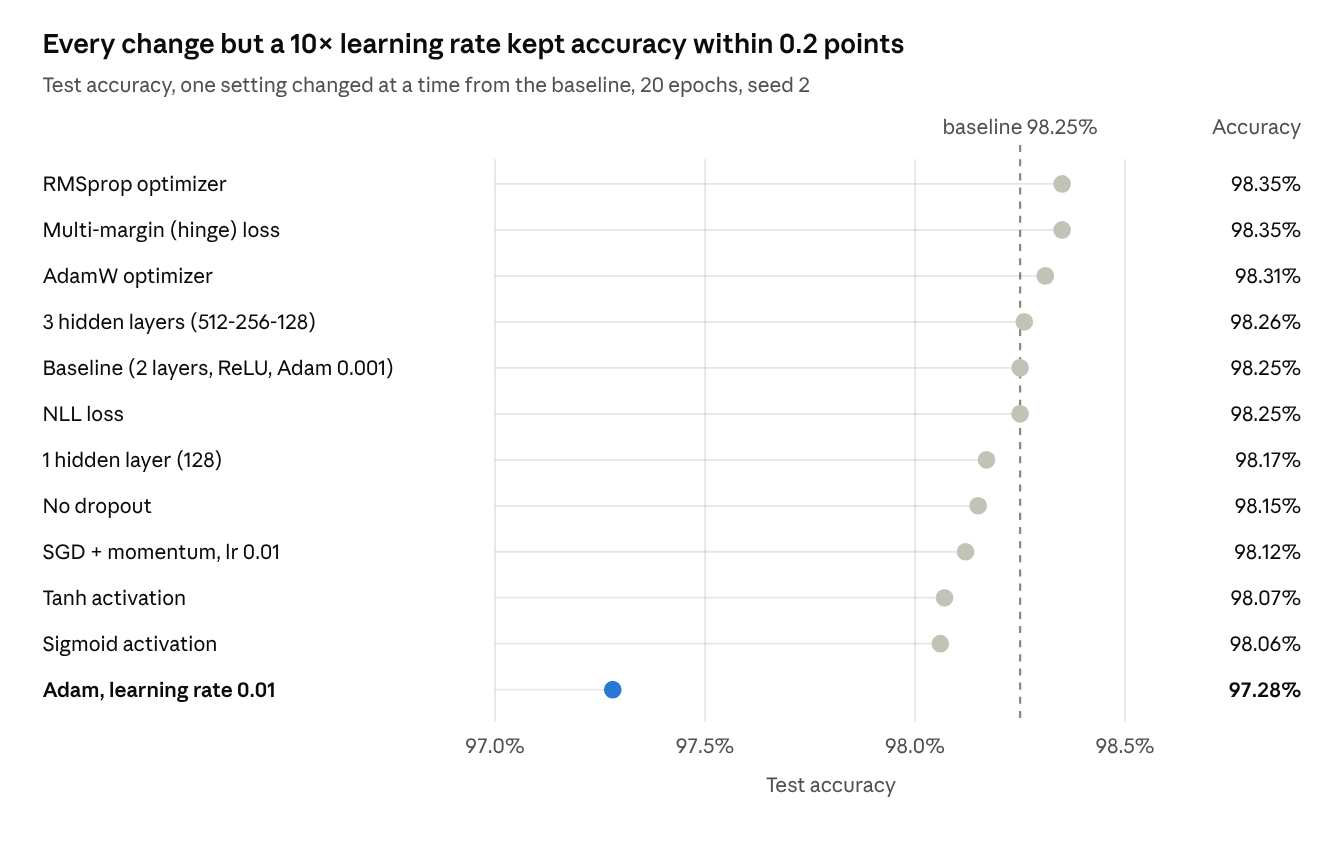
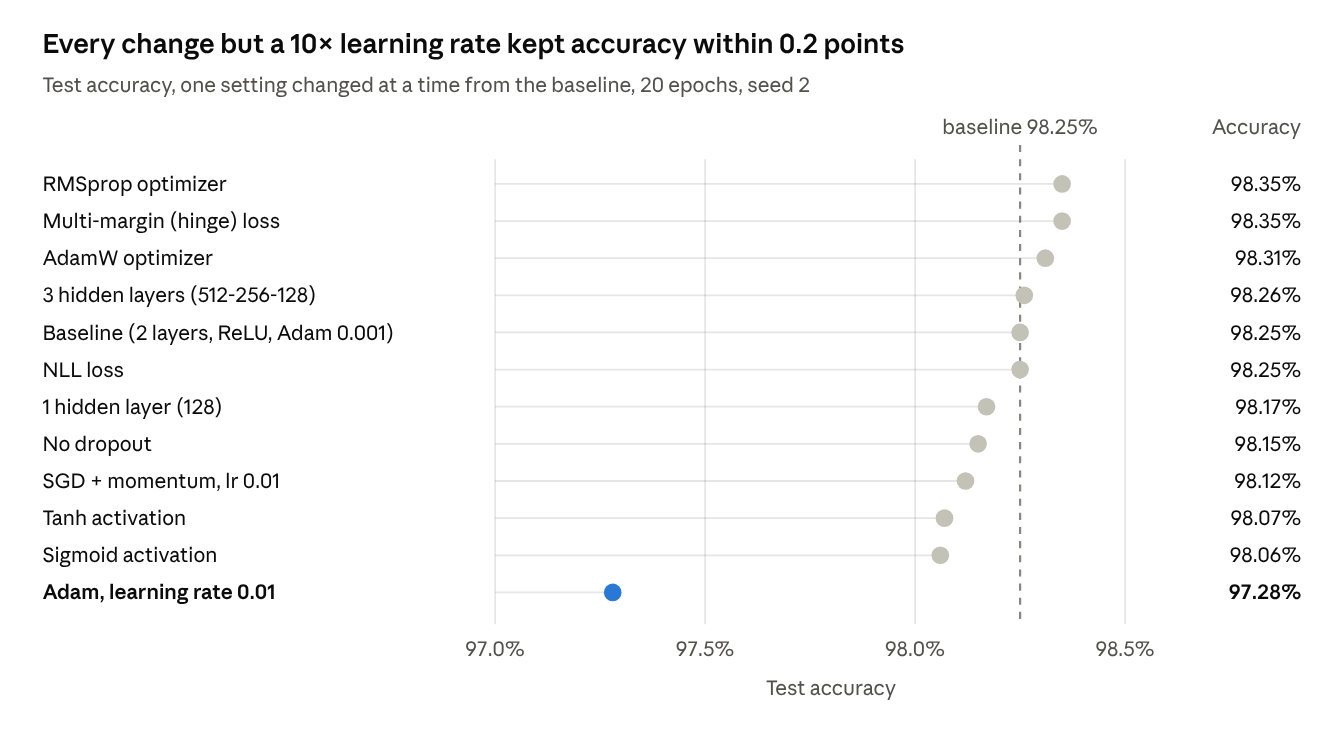
Trim Stage 2 report README to fit the 5-page limit
Shorter sections throughout, keeping the layer, split, settings and
metric explanations; compact versions of the loss and ablation charts.

diff --git a/README.md b/README.md
@@ -14,120 +14,91 @@
 
 ## Section 1: Task Description
 
-We trained a multi-layer perceptron (MLP) in PyTorch that classifies 28×28 grayscale images of handwritten digits into 10 classes (0–9), reaching 98.44% test accuracy. Each image is given as 784 pixel intensities, and the model learns a mapping from those features to a digit label.
-
-The work follows the course code template: we wrote a new dataset loader, a setting for the pre-partitioned train/test data, a 10-class MLP, and multi-class evaluation metrics. We then varied depth, dropout, activation, optimizer, loss and learning rate to see how each affects performance.
+We trained a PyTorch multi-layer perceptron (MLP) to classify 28×28 handwritten digit images (784 pixels) into 10 classes, reaching 98.44% test accuracy. Following the course code template, we wrote a CSV data loader, a 10-class MLP and multi-class metrics, then tested how depth, dropout, activation, optimizer, loss and learning rate affect performance.
 
 ## Section 2: Model Description
 
-Our model is a fully connected MLP with two hidden layers of 256 and 128 units, implemented as `Method_MLP` on top of the template's `method` base class.
+Our model (`Method_MLP`, built on the template's `method` class) is a fully connected network with two hidden layers.
 
 ![Baseline MLP architecture: 3 linear layers, 235,146 parameters](figures/architecture.png)
 
-Each part of the model has a specific job:
-
-- **Linear layers:** each unit computes a weighted sum of all its inputs plus a bias (w·x + b). These weights are what training learns: the pixels that matter for a digit get larger weights.
-- **Two hidden layers (256, then 128 units):** one linear layer can only separate digits with straight-line boundaries. Stacking layers lets the network build complex patterns out of simpler ones, and shrinking the sizes toward 10 condenses the information step by step.
-- **ReLU activation, max(0, x):** without it, any stack of linear layers collapses into a single linear layer. ReLU adds the bend that lets the network learn curved boundaries. It is cheap to compute and, unlike sigmoid or tanh, does not flatten out for large inputs, so gradients stay strong.
-- **Dropout (20%):** on each training step, it switches off a random 20% of hidden units. The model then cannot lean on any single unit to memorize training images. Dropout is off at test time.
-- **Output layer (10 units):** produces one score, called a logit, for each digit 0–9.
-- **Softmax with cross-entropy (training):** softmax turns the 10 scores into probabilities that sum to 1. Cross-entropy is small when the correct digit gets high probability and large for confident mistakes, so minimizing it pushes the model toward the right answer.
-- **Argmax (testing):** the digit with the highest score is the prediction.
-
-The model has 235,146 trainable parameters: 200,960 in hidden layer 1, 32,896 in hidden layer 2 and 1,290 in the output layer.
+- **Linear layers** compute a weighted sum of their inputs (w·x + b); training learns these weights.
+- **Two hidden layers (256, 128)** build complex patterns from simple ones; a single layer can only draw straight-line boundaries.
+- **ReLU, max(0, x),** adds the non-linearity that stops stacked layers from collapsing into one, and keeps gradients strong.
+- **Dropout (20%)** switches off random hidden units during training, so the model cannot memorize training images.
+- **Output (10 scores):** in training, cross-entropy applies softmax and penalizes wrong digits; at test time, the highest score is the prediction.
 
 ## Section 3: Experiment Settings
 
 ### 3.1 Dataset Description
 
-The instructor's Stage 2 dataset comes already split into 60,000 training images (86%) and 10,000 testing images (14%). Each line of `train.csv` and `test.csv` holds 785 integers: the label (0–9), then 784 pixel values from 0 to 255.
+The instructor's dataset is pre-split into 60,000 training images (86%) and 10,000 test images (14%). Each line of `train.csv` and `test.csv` is a label (0–9) followed by 784 pixel values (0–255). We kept this fixed split, so every team is scored on the same test images, and used no cross validation. Why this split:
 
-| Split | Images | Share | Used for |
-| --- | --- | --- | --- |
-| Training | 60,000 | 86% | Learning the weights; the model sees every image each epoch |
-| Testing | 10,000 | 14% | Measuring accuracy on images the model has never seen |
-
-Why it is split this way:
-
-- **A separate test set:** a model can score near 100% on images it has memorized, so accuracy only means something on unseen images. Our model scores 99.48% on training images but 98.44% on test images; a held-out set exposes that gap.
-- **Most images go to training:** handwriting varies widely between writers, and the model learns that variety only from examples. More training images means better accuracy on new handwriting.
-- **10,000 test images is already enough:** each test image is worth 0.01 percentage points, and our accuracy has a standard error of only about 0.12 points. A larger test set would barely sharpen that, but would take examples away from training.
-- **Balanced digits:** each digit makes up 9–11% of both sets, so the test checks every digit fairly.
-- **A fixed split:** every team is scored on the same test images, so we used no further splitting or cross validation.
+- **A separate test set:** accuracy only means something on unseen images. Ours scores 99.48% on training images but 98.44% on test images.
+- **Most images for training:** handwriting varies widely between writers, and the model learns that variety only from examples.
+- **10,000 test images is enough:** our accuracy's standard error is only about 0.12 points, and each digit makes up 9–11% of both sets.
 
 ### 3.2 Detailed Experimental Setups
 
 | Setting | Value | Why it matters |
 | --- | --- | --- |
-| Input scaling | Pixels ÷ 255, so inputs lie in [0, 1] | Keeps all inputs small and on one scale, so training is stable and converges faster |
-| Layer dimensions | 784 → 256 → 128 → 10 | 784 inputs match the pixels and 10 outputs match the digits; two hidden layers reach 98%+ in under a minute |
-| Activation | ReLU after each hidden layer | Lets the network learn non-linear patterns; beat tanh and sigmoid by about 0.2 points (3.7) |
-| Dropout | 0.2 after each hidden layer, training only | Discourages memorizing training images; removing it cost 0.10 points (3.7) |
-| Output | 10 raw scores (logits) | One score per digit; the highest score is the prediction |
-| Loss | Cross-entropy | The standard loss for choosing one of several classes; it penalizes confident wrong answers most |
-| Optimizer | Adam, learning rate 0.001 | Adapts the step size for each weight, so it converges quickly; a 10× larger rate lost about 1 point (3.7) |
-| Batch size | 128 | 469 weight updates per epoch instead of 1, so it learns faster than full-batch and fits easily in memory |
-| Epochs | 30, data reshuffled every epoch | Loss has flattened by about epoch 20 (3.5); reshuffling keeps the model from learning the data's order |
-| Initialization | PyTorch default for `nn.Linear` (Kaiming-uniform) | Starts weights at small random values scaled to each layer's input size, so signals neither blow up nor die out |
-| Random seed | 2 (NumPy and PyTorch) | Makes runs repeatable, so differences in 3.7 come from the settings, not luck |
-| Hardware | Apple M-series CPU; one run on the Apple GPU (MPS) | CPU is enough: 30 epochs train in under a minute |
-
-We removed the template's final softmax layer because `nn.CrossEntropyLoss` already applies log-softmax, and applying softmax twice weakens the gradients. We also switched from full-batch to mini-batch training, which suits a 60,000-instance training set. Only one dataset is used, so there is one set of settings.
+| Input scaling | Pixels ÷ 255 | Keeps inputs in [0, 1], so training is stable |
+| Layers | 784 → 256 → 128 → 10 | Inputs match the pixels, outputs match the digits; two hidden layers reach 98%+ |
+| Activation | ReLU | Learns non-linear patterns; beat tanh and sigmoid by about 0.2 points |
+| Dropout | 0.2, training only | Limits memorizing; removing it cost 0.10 points |
+| Loss | Cross-entropy | Standard for choosing one class; it applies softmax itself, so we removed the template's softmax layer |
+| Optimizer | Adam, learning rate 0.001 | Adapts each weight's step size; a 10× higher rate lost about 1 point |
+| Batch size, epochs | 128, 30 (reshuffled each epoch) | 469 updates per epoch instead of the template's 1 full batch; loss flattens by epoch 20 |
+| Initialization | PyTorch default (Kaiming-uniform) | Weights scaled to layer size, so signals neither blow up nor vanish |
+| Random seed | 2 | Repeatable runs, so 3.7 compares settings, not luck |
 
 ### 3.3 Evaluation Metrics
 
-We report Accuracy, Precision, Recall and F1 on the test set; each answers a different question. The examples use our final model's test results for digit 8, its weakest digit.
+Each metric answers a different question. Examples use digit 8, our weakest digit.
 
 | Metric | Question it answers | Example from our model |
 | --- | --- | --- |
-| Accuracy | Of all test images, how many did the model get right? | 9,844 of 10,000 correct (98.44%); 156 mistakes |
-| Precision | When the model says "8", how often is it right? | It predicted "8" 976 times; 953 were real 8s (97.64%) and 23 were false alarms |
-| Recall | Of all the real 8s, how many did the model find? | Of 974 real 8s, it found 953 (97.84%) and missed 21 |
-| F1 score | One score balancing the two: 2 × P × R / (P + R). It is low if either one is low | Digit 8: 0.9774, the lowest; digit 1: 0.9934, the highest |
+| Accuracy | How many test images were classified correctly? | 9,844 of 10,000 (98.44%) |
+| Precision | When it predicts "8", how often is it right? | 953 of 976 "8" predictions (97.64%) |
+| Recall | Of the real 8s, how many did it find? | 953 of 974 real 8s (97.84%) |
+| F1 score | Balances the two: 2PR / (P + R) | 0.9774 for digit 8, the lowest of the 10 |
 
-How to read them:
-
-- **Low precision means false alarms:** the model labels other digits as this one.
-- **Low recall means misses:** the model fails to recognize this digit.
-- **Macro vs. weighted:** precision, recall and F1 are computed per digit, then averaged over the 10 digits. **Macro** counts every digit equally, so one weak digit pulls it down. **Weighted** counts each digit by its number of test images. When the two are close, as in 3.6, no digit is being neglected.
+Low precision means false alarms; low recall means misses. Per-digit scores are averaged two ways: **macro** treats every digit equally, so a weak digit shows up, and **weighted** counts each digit by its number of test images.
 
 ### 3.4 Source Code
 
-Source code: <https://github.com/bettyckang/ECS170-project/tree/stage-2>. The Stage 2 code lives in `local_code/stage_2_code/` (Dataset_Loader, Method_MLP, Setting_Train_Test_Given, Evaluate_Metrics, Plot_Learning_Curve) and `script/stage_2_script/` (`script_mlp.py` for the main run, `script_mlp_experiments.py` for the ablations).
+[github.com/bettyckang/ECS170-project (stage-2 branch)](https://github.com/bettyckang/ECS170-project/tree/stage-2): Stage 2 code is in `local_code/stage_2_code/` and `script/stage_2_script/`.
 
 ### 3.5 Training Convergence Plot
 
 ![Training loss falls from 0.383 to 0.015 over 30 epochs](figures/loss_curve.png)
 
-The loss falls 60% between epochs 1 and 2 and flattens after about epoch 20, so gradient descent with Adam converges smoothly. Training and test accuracy per epoch are in [figures/train_test_accuracy.png](figures/train_test_accuracy.png).
+Loss falls 60% between epochs 1 and 2 and flattens after about epoch 20, so training converges smoothly.
 
 ### 3.6 Model Performance
 
-The baseline MLP reaches 98.44% accuracy on the 10,000 test images, and every averaged metric is within 0.02 points of it.
+The final model reaches **98.44% accuracy** on the 10,000 test images, above the required 95%.
 
 | Metric | Macro average | Weighted average |
 | --- | --- | --- |
-| Accuracy | 0.9844 | 0.9844 |
 | Precision | 0.9842 | 0.9844 |
 | Recall | 0.9842 | 0.9844 |
 | F1 score | 0.9842 | 0.9844 |
 
-Per class, F1 ranges from 0.977 for digit 8 to 0.993 for digit 1. Macro and weighted averages nearly match because the 10 classes are close to balanced (892 to 1,135 test images each).
+Per-digit F1 ranges from 0.977 (digit 8) to 0.993 (digit 1). Macro and weighted averages match closely, so no digit is neglected.
 
 ### 3.7 Ablation Studies
 
-Only the learning rate mattered much: raising Adam's learning rate tenfold to 0.01 cut test accuracy to 97.28%, while every other change stayed within 0.2 points of the 98.25% baseline. Each run changes one setting from the baseline and trains for 20 epochs with the same seed. In every run, weighted precision, recall and F1 and macro F1 are within 0.0002 of accuracy, so the chart shows accuracy alone.
+Each run changes one setting from the baseline (20 epochs, same seed). Only the learning rate mattered much: at 0.01, accuracy fell to 97.28%, while every other change stayed within 0.2 points of the 98.25% baseline. Precision, recall and F1 track accuracy within 0.0002, so the chart shows accuracy alone.
 
 ![Test accuracy for 12 one-change-at-a-time runs](figures/ablation_accuracy.png)
 
-- **Learning rate:** at 0.01, Adam's steps overshoot, and accuracy fell about 1 point.
-- **Depth:** one hidden layer lost only 0.08 points and trained twice as fast (12.5 s vs 26.9 s). Three layers gained 0.01 points but took 43.1 s.
-- **Dropout and activation:** removing dropout cost 0.10 points. ReLU beat tanh and sigmoid by about 0.2 points.
-- **Optimizer:** RMSprop (98.35%) and AdamW (98.31%) edged out Adam; SGD with momentum trailed at 98.12%.
-- **Loss:** NLL loss after log-softmax is mathematically the same as cross-entropy, and it gave an identical 98.25%. The multi-margin (hinge) loss tied for best at 98.35%.
-- **GPU (optional 2-6):** the same baseline on the Apple GPU (MPS) took 46.4 s versus 26.9 s on the CPU, because transfer overhead outweighs the speedup for a model this small.
+- **Depth:** one hidden layer lost 0.08 points but trained twice as fast; three layers gained only 0.01.
+- **Dropout and activation:** removing dropout cost 0.10 points; tanh and sigmoid trailed ReLU by about 0.2.
+- **Optimizer and loss:** RMSprop and the hinge loss tied for best (98.35%). NLL matched cross-entropy exactly, as expected, since they compute the same loss.
+- **GPU (optional 2-6):** Apple's MPS GPU was slower than the CPU (46.4 s vs 26.9 s) for a model this small.
 
-These runs use a single seed, so gaps under about 0.2 points may be noise. Our final model keeps the baseline settings with 30 epochs, which reached 98.44% (Section 3.6).
+With one seed, gaps under about 0.2 points may be noise. Our final model keeps the baseline settings, trained for 30 epochs.
 
 ## Running the code
 
@@ -141,4 +112,4 @@ PYTHONPATH=../.. python3 script_mlp.py
 PYTHONPATH=../.. python3 script_mlp_experiments.py
 ```
 
-Results and plots are written to `result/stage_2_result/`.
+Results and plots are written to `result/stage_2_result/`. Per-epoch training and test accuracy for the baseline are also in [figures/train_test_accuracy.png](figures/train_test_accuracy.png).
